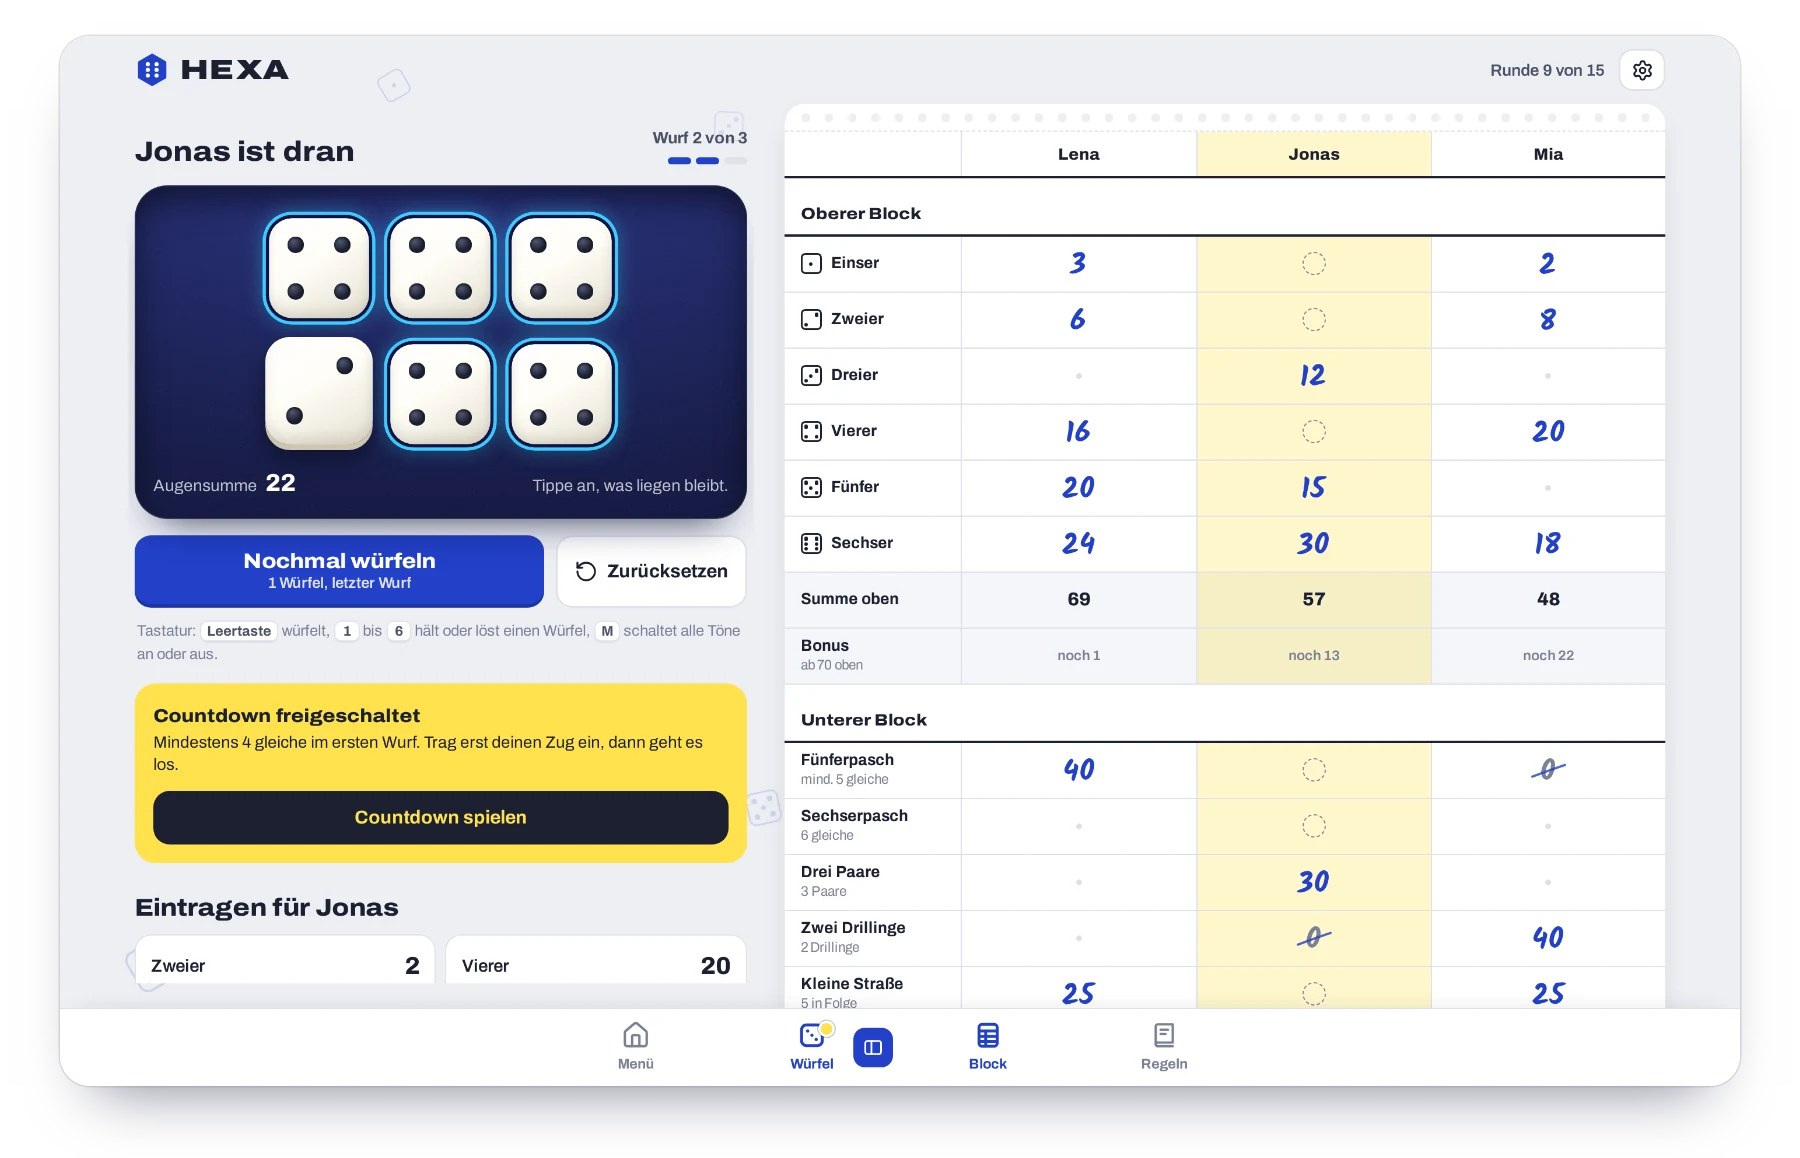
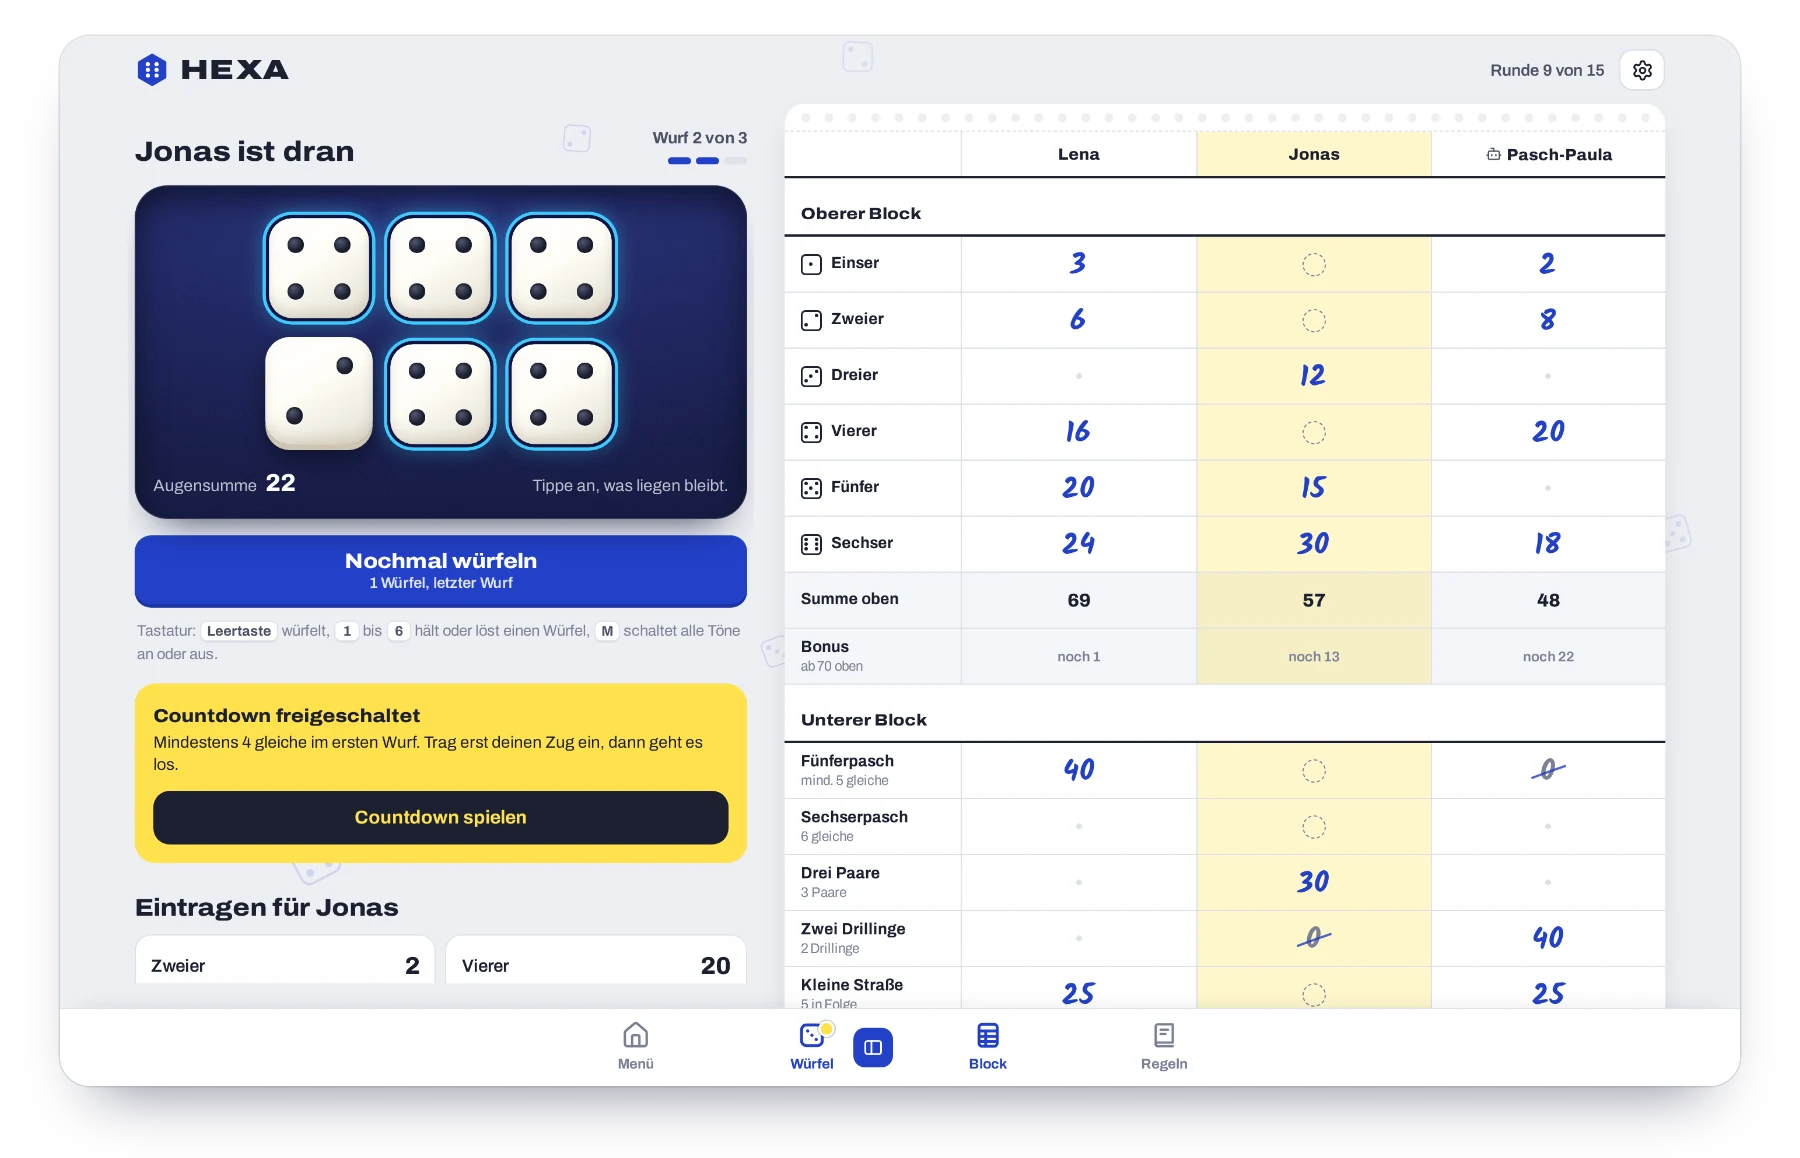
README, Screenshots und Changelog für 1.5.0
Claude-Session: https://claude.ai/code/session_01EyxE22HJnkbi7Dpw29RZbE

diff --git a/README.md b/README.md
@@ -6,7 +6,7 @@
 
 **Sechs Würfel. Drei Würfe. Ein Countdown.**
 
-Das Würfelspiel für eine oder mehr Personen – Würfel, Spielblock und Regeln in einer App.<br>
+Das Würfelspiel für eine oder mehr Personen, auch gegen Bots – Würfel, Spielblock und Regeln in einer App.<br>
 Läuft direkt im Browser, auf dem Handy wie am Laptop. Ohne Installation, ohne Konto, ohne Abhängigkeiten.
 
 ### [▶&nbsp;Jetzt spielen](https://unpacked-dev.github.io/hexa/)
@@ -36,15 +36,15 @@ Die App ersetzt Würfel, Becher, Block und Stift. Ihr gebt einfach das Handy rei
 
 ## So läuft ein Spiel
 
-1. Im Hauptmenü **Lokal** wählen und eintragen, wer mitspielt.
-2. Entscheiden, **womit ihr würfelt**: mit der App oder mit euren eigenen Würfeln. Den Spielblock führt die App in beiden Fällen.
+1. Im Hauptmenü **Lokal** wählen und eintragen, wer mitspielt. Mit **Bot hinzufügen** kommen Computergegner dazu.
+2. Entscheiden, **womit ihr würfelt**: mit der App oder mit euren eigenen Würfeln. Den Spielblock führt die App in beiden Fällen. Mit Bots würfelt immer die App.
 3. Reihum spielen. Über **Menü** könnt ihr jederzeit pausieren und später weitermachen.
 4. Nach 15 Runden auf **Spiel beenden** tippen. Das Ergebnis zeigt die Platzierung, die Punkte landen in den **Highscores**.
 
 <div align="center">
 <picture>
   <source media="(prefers-color-scheme: dark)" srcset="docs/screenshots/flow-dark.webp">
-  <img src="docs/screenshots/flow-light.webp" width="880" alt="HEXA auf dem Handy: Spieler-Auswahl mit App- oder eigenen Würfeln, Ergebnis mit neuem Rekord und die Highscores">
+  <img src="docs/screenshots/flow-light.webp" width="880" alt="HEXA auf dem Handy: Spieler-Auswahl mit einem Bot, Ergebnis mit neuem Rekord und die Highscores">
 </picture>
 </div>
 
@@ -56,6 +56,7 @@ Die App ersetzt Würfel, Becher, Block und Stift. Ihr gebt einfach das Handy rei
 - **Spielblock, der mitrechnet** – Summen, Bonus und Endstand werden automatisch berechnet. Nach jedem Wurf zeigt die App, wie viele Punkte jedes freie Feld bringen würde.
 - **Countdown als Bonusspiel** – wird automatisch freigeschaltet und direkt nach dem Zug gestartet.
 - **Mehrere Personen oder solo** – Reihenfolge vor dem Spiel festlegen. Im Spiel lassen sich Namen ändern und Personen entfernen.
+- **Bots als Gegner** – Computergegner mit Namen wie Pasch-Paula oder Dr. Wurf. Sie spielen sichtbar Zug für Zug und fast perfekt: im Schnitt 322 Punkte, perfektes Spiel bringt 324. In die Highscores kommen nur Menschen.
 - **Spielende und Highscores** – das Ergebnis zeigt alle Platzierungen und neue Rekorde. Die zehn besten Ergebnisse bleiben auf dem Gerät gespeichert, Online-Highscores kommen bald.
 - **Nichts geht verloren** – Spiele lassen sich pausieren und bleiben auch nach dem Schließen erhalten. Einträge, entfernte Personen oder ein abgebrochenes Spiel lassen sich mit einem Tipp rückgängig machen.
 - **Regeln eingebaut** – Kurzübersicht, Beispiele und Wahrscheinlichkeiten für Neugierige.
@@ -147,6 +148,7 @@ HEXA ist bewusst einfach gebaut: **reines HTML, CSS und JavaScript** – kein Fr
 
 - **Ton aus dem Browser:** Alle Effekte und die Lo-Fi-Musik entstehen live mit der Web Audio API. Es wird keine einzige Audiodatei geladen.
 - **Faire Würfel:** Zufallszahlen kommen aus `crypto.getRandomValues`, ohne Modulo-Verzerrung.
+- **Bots mit Mathe statt KI:** Ein Bot rechnet jeden Zug exakt durch. Für jede Möglichkeit, Würfel liegen zu lassen, kennt er die Wahrscheinlichkeit jedes Ergebnisses. Was ein Feld für den Rest des Spiels wert ist, schätzt er mit rund 170 Zahlen. Die stammen aus dem perfekten Spiel, das die Werkzeuge in `tools/` für alle 1,65 Millionen Spielstände ausrechnen.
 - **Alles bleibt auf dem Gerät:** Spielstand, Highscores, Design und Ton werden im `localStorage` deines Browsers gespeichert und nie übertragen. Es gibt kein Konto und kein Backend.
 - **Keine fremden Server:** Schriften und Icons liegen im Repository. Beim Spielen wird nichts von Google oder anderen Anbietern geladen. Es gibt keine Cookies und kein Tracking.
 - **Barrierearm:** Bedienbar per Tastatur, mit Screenreader-Beschriftungen, sichtbarem Fokus und Rücksicht auf *reduzierte Bewegung*.
@@ -163,6 +165,7 @@ hexa/
 ├── js/
 │   ├── theme-init.js      # setzt das gewählte Design vor dem ersten Zeichnen
 │   ├── rules.js           # Felder, Punkte und Wertung
+│   ├── bot.js             # Computergegner: welche Würfel liegen bleiben, welches Feld
 │   ├── sound.js           # Effekte und Lo-Fi-Musik (Web Audio)
 │   ├── i18n.js            # wählt die Sprache und liefert die Texte
 │   └── app.js             # Spielablauf, Darstellung, Eingaben
@@ -174,17 +177,29 @@ hexa/
 ├── manifest.webmanifest   # macht HEXA installierbar
 ├── tests/
 │   ├── rules.test.js      # Tests für die Wertung
-│   └── lang.test.js       # prüft, dass beide Sprachen vollständig sind
-├── docs/                  # Screenshots und Vorschaubild
+│   ├── lang.test.js       # prüft, dass beide Sprachen vollständig sind
+│   └── bot.test.js        # Tests für die Bots
+├── tools/
+│   ├── bot-optimal.js     # rechnet das perfekte Spiel für alle Spielstände aus
+│   ├── bot-fit.js         # leitet daraus die Werte für die Bots ab
+│   └── bot-sim.js         # lässt Bots viele Partien spielen und zeigt die Zahlen
+├── docs/                  # Screenshots, Vorschaubild und Konzept für den Online-Modus
 └── THIRD-PARTY-NOTICES.md # Lizenzen von Schriften und Icons
 ```
 
 ### Tests
 
-Die Wertung aller 15 Felder ist mit dem eingebauten Test-Runner von Node.js abgedeckt (Node 18 oder neuer, keine Installation nötig):
+Wertung, Sprachen und Bots sind mit dem eingebauten Test-Runner von Node.js abgedeckt (Node 18 oder neuer, keine Installation nötig):
 
 ```bash
 node --test
+```
+
+Wer die Bots selbst nachrechnen möchte:
+
+```bash
+node tools/bot-optimal.js                  # perfektes Spiel ausrechnen (rund 30 s, legt 9 MB in tools/out/ ab)
+node tools/bot-sim.js 100000 bot,perfekt   # 100.000 Partien simulieren und vergleichen
 ```
 
 ## Lizenz

diff --git a/CHANGELOG.md b/CHANGELOG.md
@@ -3,6 +3,25 @@
 Alle wichtigen Änderungen an HEXA stehen hier.
 Das Format folgt [Keep a Changelog](https://keepachangelog.com/de/1.1.0/), die Versionen folgen [Semantic Versioning](https://semver.org/lang/de/).
 
+## [1.5.0] – 2026-09-25
+
+Computergegner: Jetzt könnt ihr gegen Bots spielen.
+
+### Neu
+
+- **Bots:** In der Spieler-Auswahl holt „Bot hinzufügen“ einen Computergegner dazu, mit Namen wie Randy, Pasch-Paula oder Dr. Wurf. Bots spielen sichtbar Zug für Zug: Sie würfeln, überlegen, lassen Würfel liegen, tragen ein und spielen ihren Countdown.
+- **Fast perfektes Spiel:** Bots rechnen jeden Zug exakt durch. In 100.000 Testspielen holen sie im Schnitt 322,5 Punkte, perfektes Spiel bringt 323,7.
+- **Werkzeuge für die Bots:** `tools/` rechnet das perfekte Spiel für alle 1,65 Millionen Spielstände aus, leitet daraus die Bot-Werte ab und simuliert Partien.
+- **Konzept für den Online-Modus:** steht in `docs/online-konzept.md`.
+
+### Geändert
+
+- **Mit Bots nur App-Würfel:** Ihre Spalten im Block sind gesperrt, während ihres Zugs kann niemand für sie würfeln. In die Highscores kommen nur Menschen.
+- **Rückgängig mit Bots:** Ist als Nächstes ein Bot dran, bleibt „Rückgängig“ 3,5 statt 5 Sekunden, und der Bot wartet so lange.
+- **Zurücksetzen-Knopf im Würfel-Tab entfernt:** Schlechte Würfe lassen sich nicht mehr einfach wegwerfen. Nach dem Spielende geht freies Würfeln trotzdem weiter.
+- **Lange Namen** brechen im Würfel-Tab in zwei Zeilen um, statt abgeschnitten zu werden.
+- **Screenshots** im README zeigen den neuen Stand.
+
 ## [1.4.0] – 2026-09-25
 
 HEXA spricht jetzt auch Englisch.
@@ -90,6 +109,7 @@ Die erste Version von HEXA.
 - **Web-App:** installierbar auf dem Home-Bildschirm, Bildschirm bleibt während des Spiels an.
 - **Tests:** Wertung aller Felder mit `node --test` abgedeckt.
 
+[1.5.0]: https://github.com/unpacked-dev/hexa/releases/tag/v1.5.0
 [1.4.0]: https://github.com/unpacked-dev/hexa/releases/tag/v1.4.0
 [1.3.0]: https://github.com/unpacked-dev/hexa/releases/tag/v1.3.0
 [1.2.0]: https://github.com/unpacked-dev/hexa/releases/tag/v1.2.0
